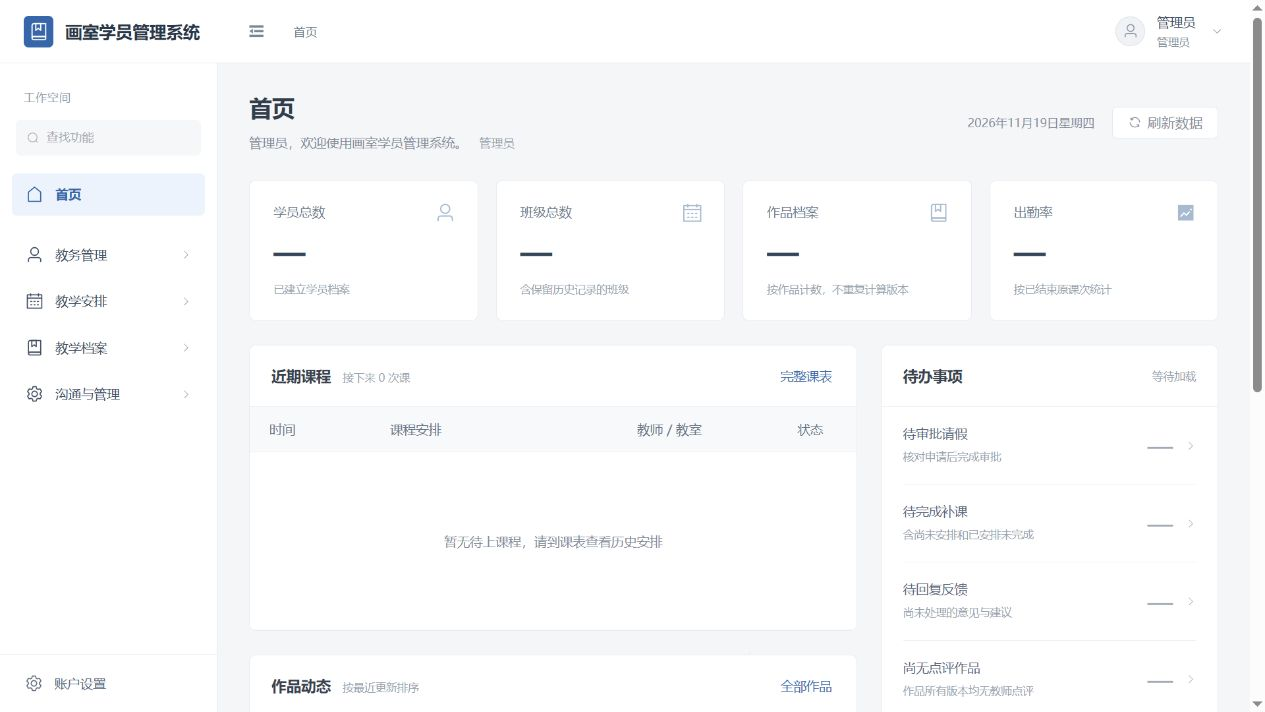
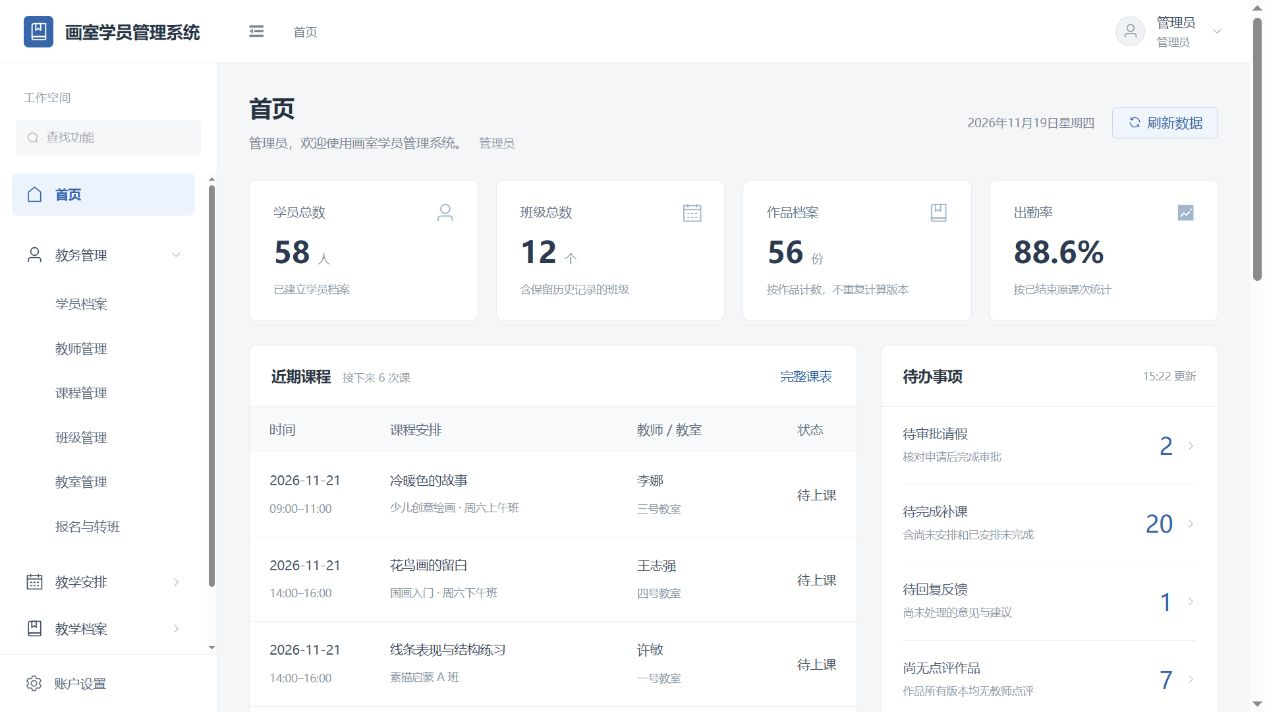
Refine demo review timelines and update populated screenshots

diff --git a/scripts/demo-data/seed.py b/scripts/demo-data/seed.py
@@ -318,14 +318,16 @@ class Seeder:
                                    description=['先完成大形和主要色块，细节还在练习。', '尝试按照课堂的方法调整空间关系。', '这次重点练习了构图，局部不太确定。', '保留了起稿步骤，请老师看看比例。'][j], created_at=submitted)
                     if not (k==1 and j==3):
                         self.add('reviews', version_id=vid, teacher_id=cls['teacher_id'], content=reviews[cat][0],
-                                 score=76+(i*3+j*4+k)%17, created_by=self.admin, created_at=submitted+timedelta(hours=6))
+                                 score=76+(i*3+j*4+k)%17, created_by=self.admin,
+                                 created_at=datetime.combine(submitted.date()+timedelta(days=1), time(10, 15+j*7)))
                     if k==0 and j==0:
                         updated = submitted+timedelta(days=2)
                         fid = self.file(f'practice-{seed:03d}', cat, seed, 2, updated)
                         vid = self.add('work_versions', work_id=wid, file_id=fid, version_no=2,
                                        description='根据点评调整了局部关系，保留原构图，对重点部分做了修改。', created_at=updated)
                         self.add('reviews', version_id=vid, teacher_id=cls['teacher_id'], content=reviews[cat][1],
-                                 score=87+i%6, created_by=self.admin, created_at=updated+timedelta(hours=5))
+                                 score=87+i%6, created_by=self.admin,
+                                 created_at=datetime.combine(updated.date()+timedelta(days=1), time(14, 30)))
             fid = self.file(f'reference-{i+1:02d}', cat, 100+i, 2, self.stamp(-12), purpose='resources')
             self.add('resources', title={'sketch':'静物观察与明暗参考', 'advanced':'结构与空间练习参考', 'water':'植物色彩观察参考', 'creative':'花园构图练习参考', 'ink':'竹叶与疏密练习参考', 'oil':'风景冷暖层次参考'}[cat],
                      class_id=cls['id'], file_id=fid, description='课堂练习示意图，仅供观察步骤与构图参考，不要求照抄。（虚构演示资料）',

diff --git a/docs/演示数据.md b/docs/演示数据.md
@@ -48,7 +48,7 @@ python scripts/demo-data/seed.py --apply
 导入过程：
 
 - 获取与业务写入共用的排课事务锁，阻止同时修改课表。
-- 只修改与原始种子姓名完全一致的少量姓名及其账户显示名；账号、密码、头像保持不变。原始占位手机号会清空，其他联系方式不动。
+- 只修改与原始种子姓名完全一致的少量姓名及其账户显示名；账号、密码、头像保持不变。原始学员占位手机号会清空，其他联系方式不动。
 - 保留已有业务数据，新增的报名与课次按照生效日期匹配；转班前后分别属于原班和目标班。
 - 检查教师、教室、班级和学员时间冲突、课次容量、有效报名、未来考勤、补课链及作品提交时间。校验失败会回滚本次业务事务。
 - 用审计记录 `DEMO_DATA_IMPORT / realistic-teaching-v1` 标识导入批次；重复执行直接返回 `already_imported`，不会叠加同一批数据。
